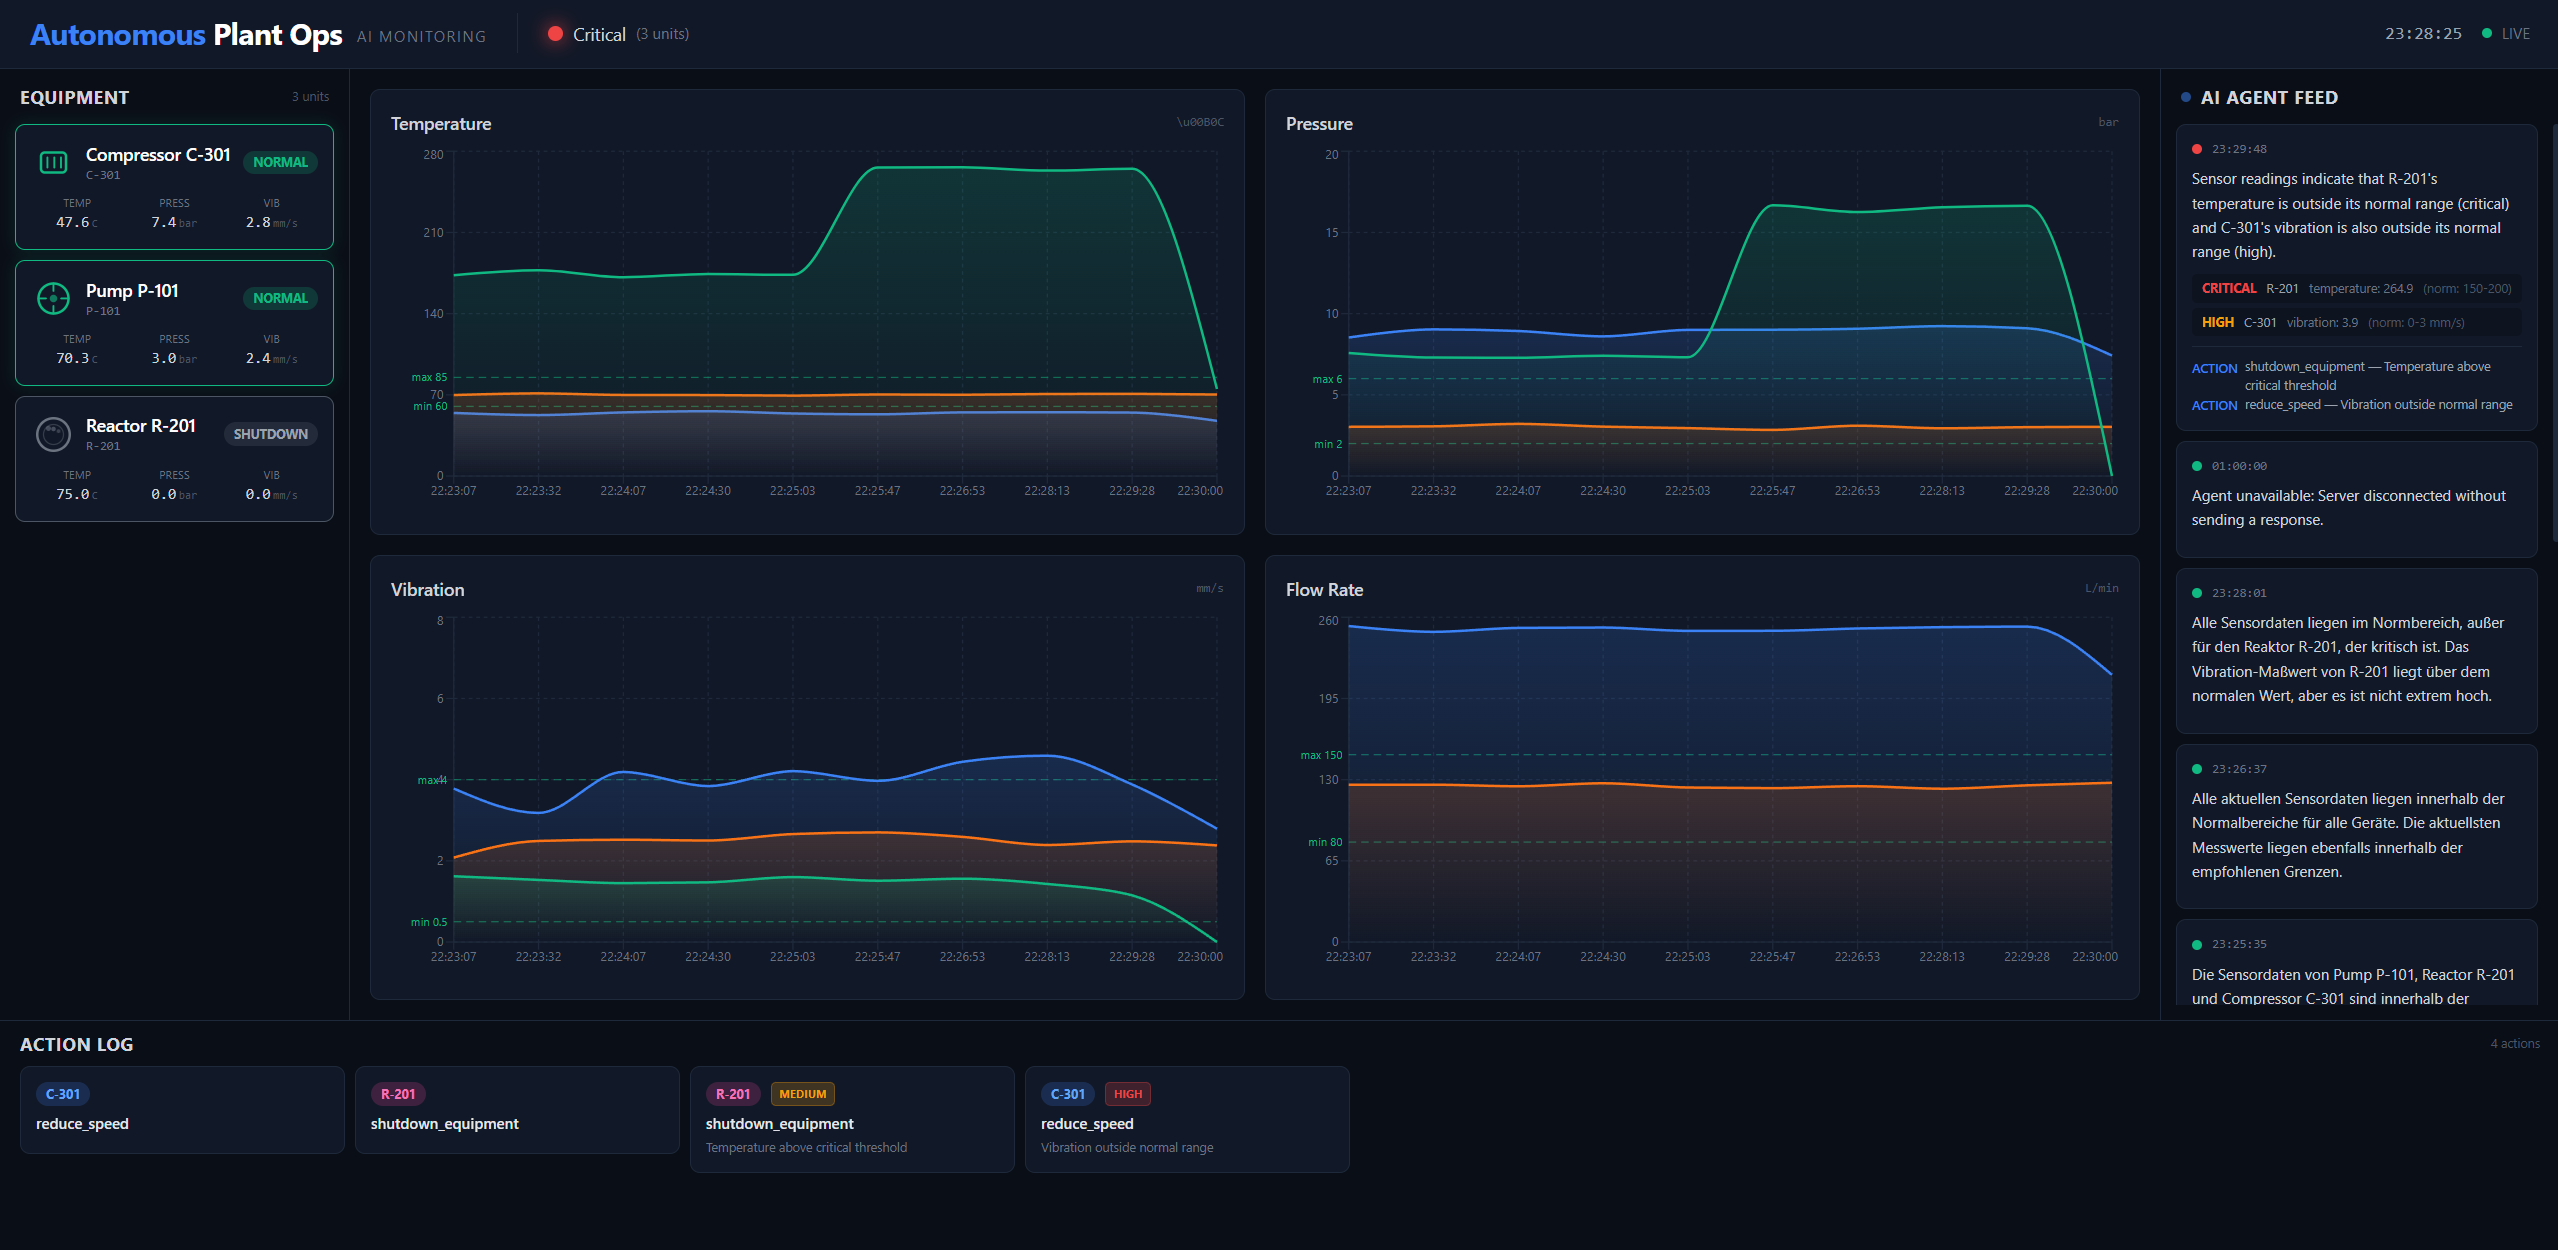
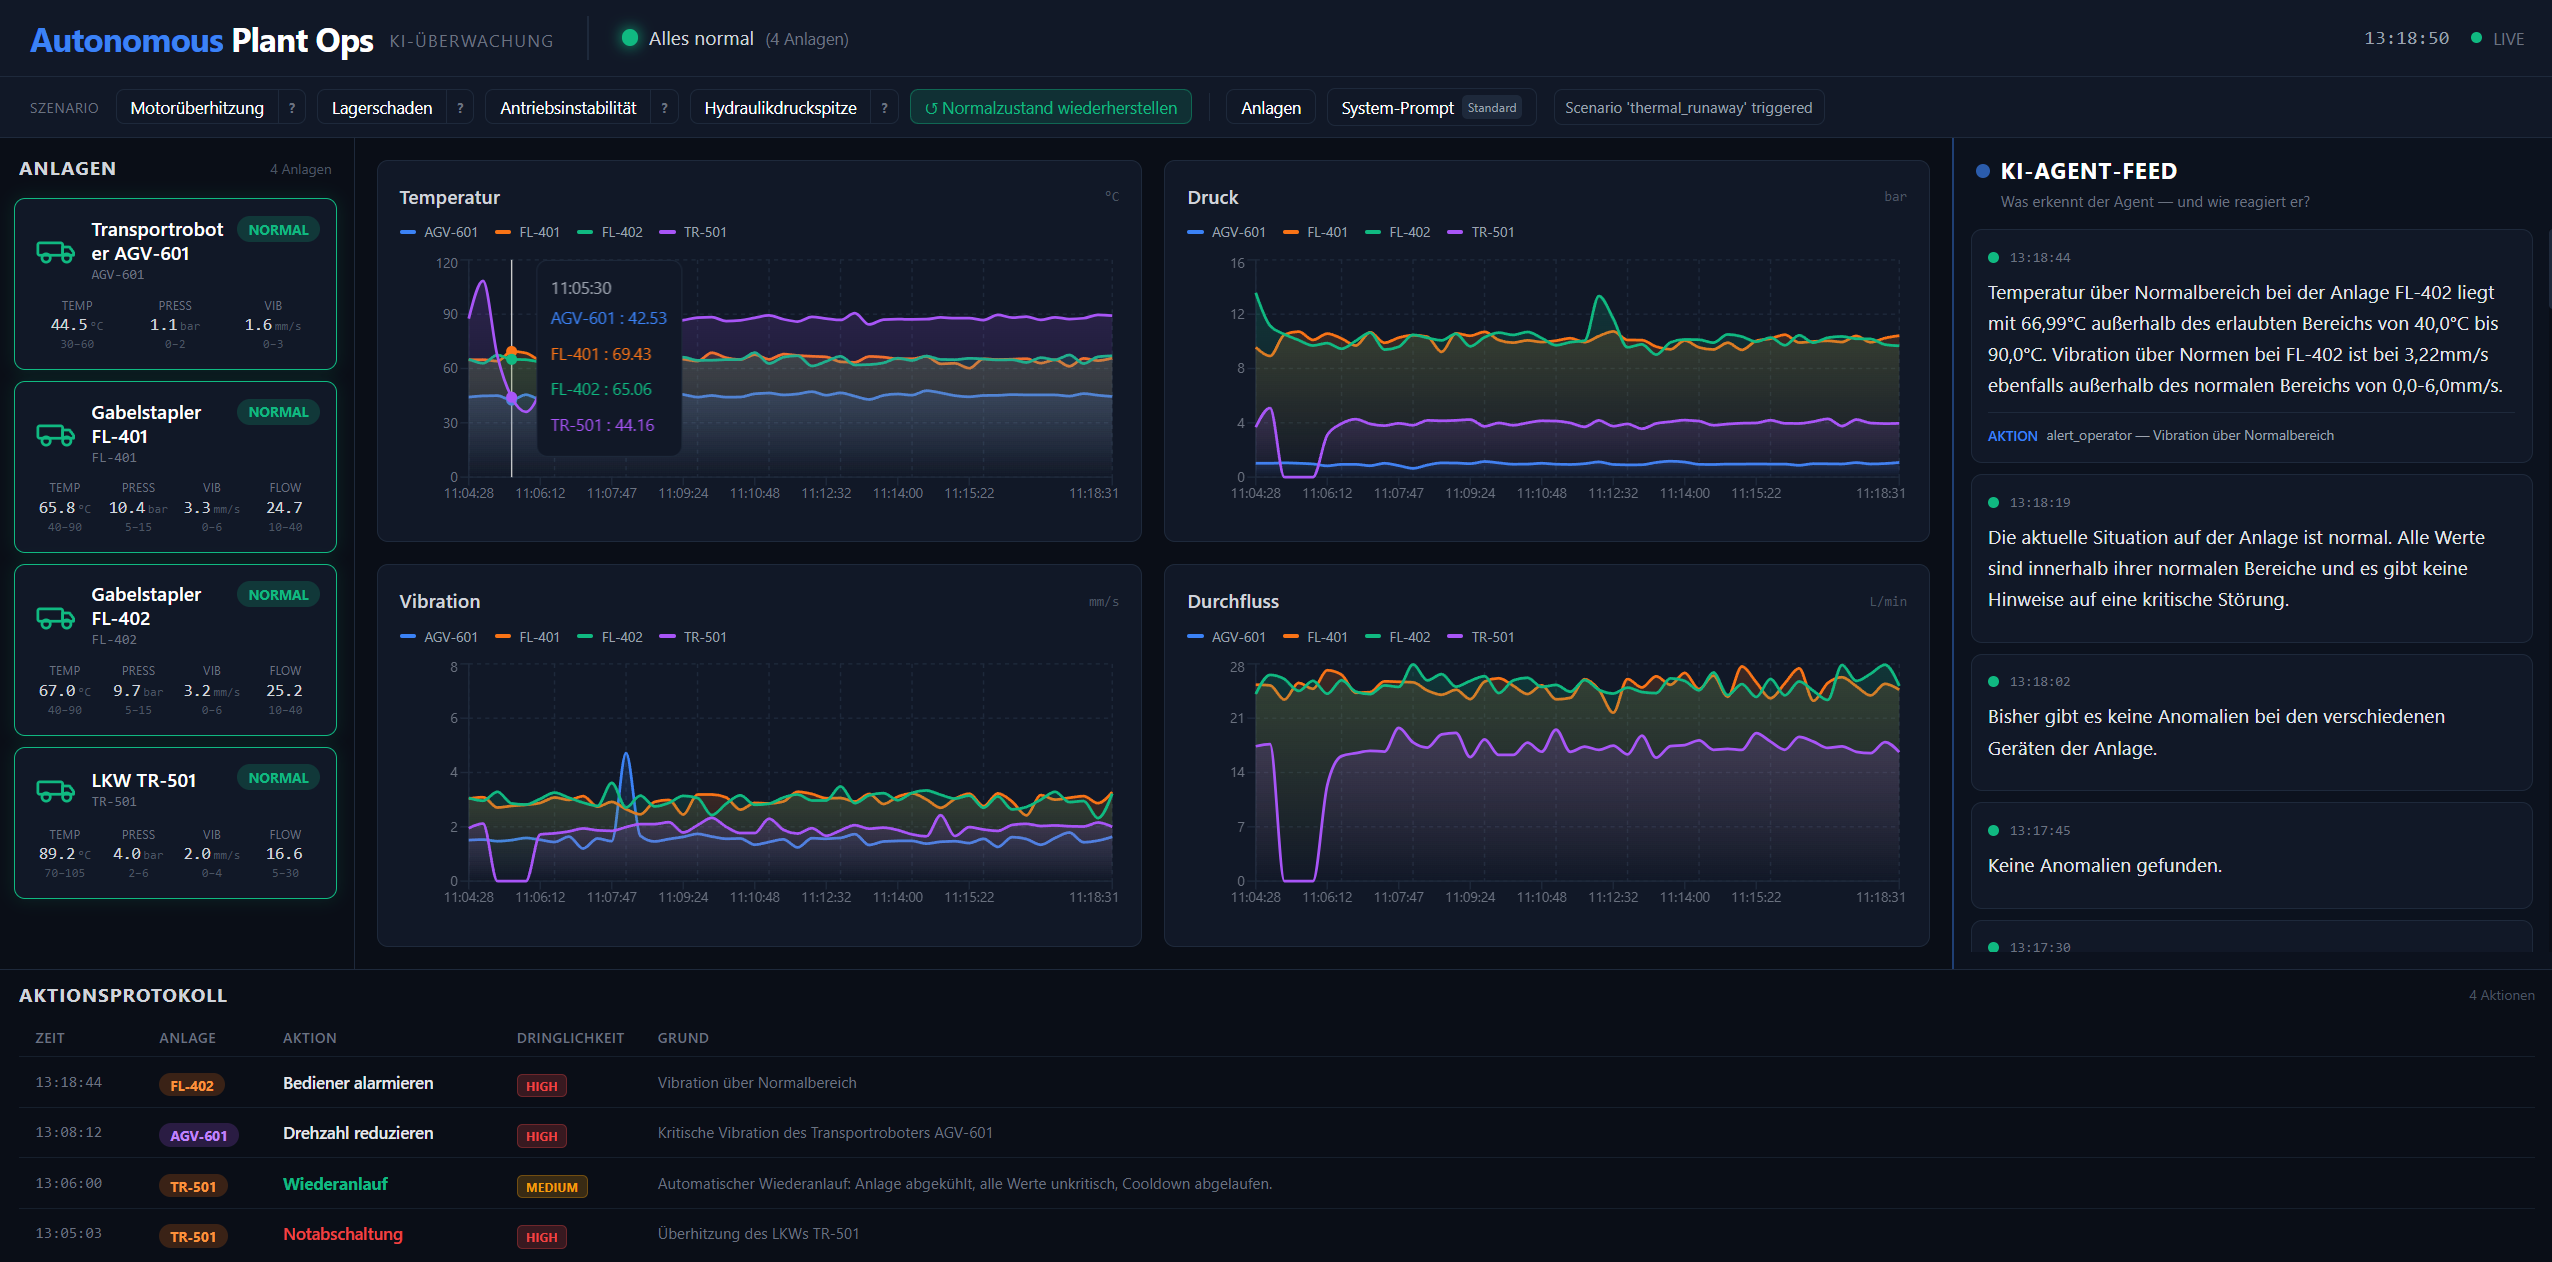
release: v1.0.8 — Code Scanning to 0 (frontend USER) + updated screenshot
- DS-0002 (no non-root USER): dashboard-frontend now declares
  USER 65532 (Chainguard nginx already runs as it). The 4 service
  runtime images already had USER -> all runtime Dockerfiles clean.
- DS-0002 on the ephemeral *.test / CI Dockerfiles: scoped exception
  in a structured .trivyignore.yaml (replaces flat .trivyignore);
  Security workflow passes trivyignores: .trivyignore.yaml so the
  path-scoped rule is actually applied. Global justified ignores
  (DS-0026, KSV-0014/0110/0125) retained.
- Verified locally with trivy 0.70 + --ignorefile: every Dockerfile
  0 misconfig failures; CodeQL already at 0.
- docs/dashboard-screenshot.png updated (per request).

Verified: helm lint; real helm install on rancher-desktop -> 5/5
Running (frontend nonroot 65532), smoke OK, integration 16 passed,
uninstall clean.

Chart 0.2.8, appVersion 1.0.8, artifacthub images :1.0.8.

diff --git a/helm/autonomous-plant-ops/README.md b/helm/autonomous-plant-ops/README.md
@@ -2,7 +2,7 @@
 
 KI-gestuetzte autonome Ueberwachung industrieller Anlagen — Sensor Simulator, LLM Agent, Orchestrator, Dashboard API/Frontend und optional Ollama.
 
-![Version: 0.2.7](https://img.shields.io/badge/Version-0.2.7-informational?style=flat-square) ![Type: application](https://img.shields.io/badge/Type-application-informational?style=flat-square) ![AppVersion: 1.0.7](https://img.shields.io/badge/AppVersion-1.0.7-informational?style=flat-square)
+![Version: 0.2.8](https://img.shields.io/badge/Version-0.2.8-informational?style=flat-square) ![Type: application](https://img.shields.io/badge/Type-application-informational?style=flat-square) ![AppVersion: 1.0.8](https://img.shields.io/badge/AppVersion-1.0.8-informational?style=flat-square)
 
 ## Installation
 